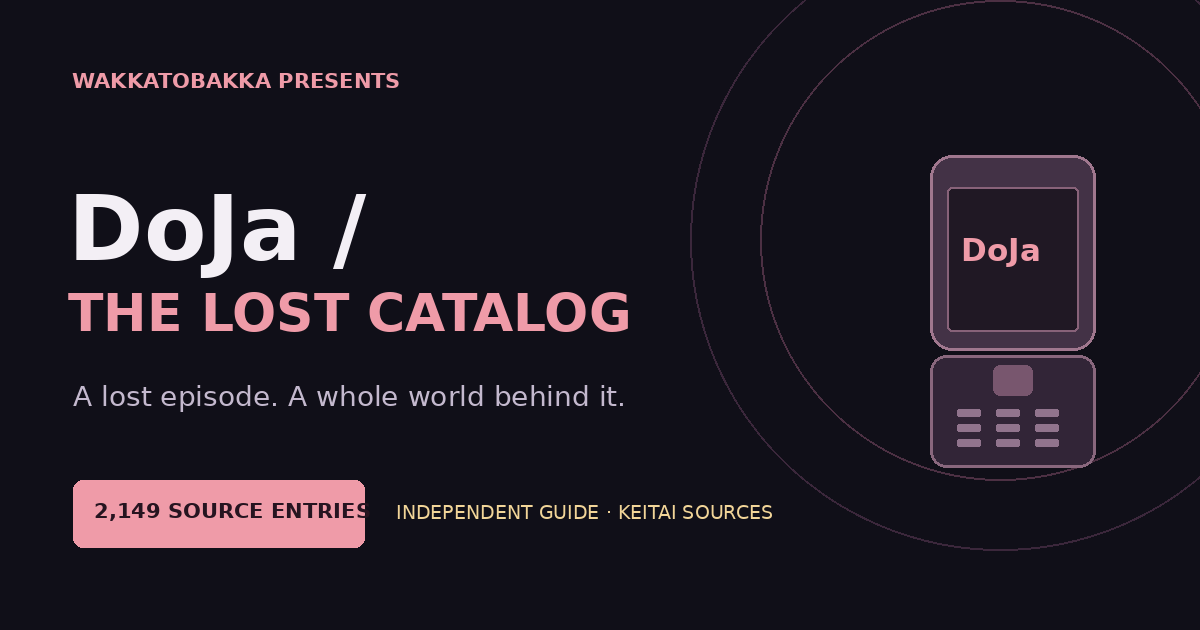
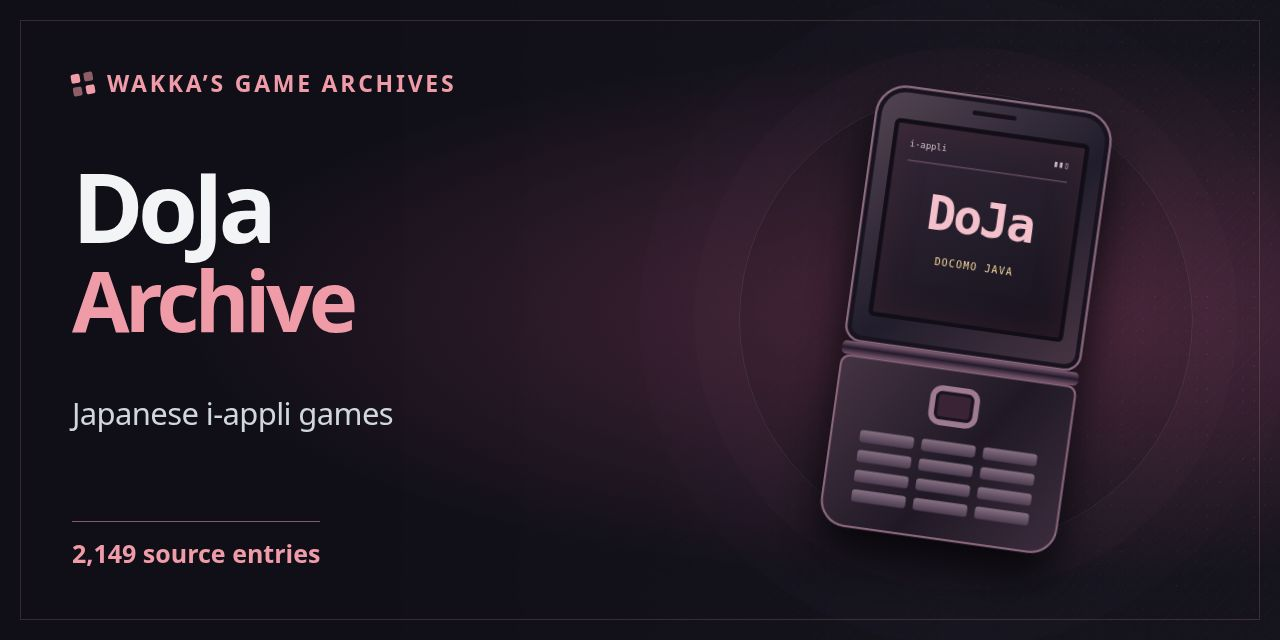
archive revamp

diff --git a/index.html b/index.html
@@ -32,7 +32,7 @@
 #games{scroll-margin-top:100px}.catalog-status{margin:0;padding:13px 23px;border-bottom:1px solid var(--line);color:var(--muted);font-size:11px;line-height:1.6}.catalog-status-warning{color:var(--amber)}.catalog-list{max-height:520px;max-height:min(66vh,520px)}.game-row{display:block;padding:0}.game-summary{display:grid;grid-template-columns:minmax(0,1fr) auto;align-items:center;gap:14px;padding:16px 0;cursor:pointer;list-style:none}.game-summary::-webkit-details-marker{display:none}.game-meta{display:flex;align-items:flex-end;flex-direction:column;gap:7px}.game-open{color:var(--muted);font-size:9px;white-space:nowrap}details[open] .game-open{color:var(--cyan)}.game-summary:hover strong{color:var(--cyan)}.game-body{padding:0 0 19px 12px;margin:0 0 3px;border-left:2px solid #36636e;font-size:12px;line-height:1.7;overflow-wrap:anywhere}.game-body dl{margin:0}.game-body dl>div{margin:0 0 14px}.game-body dt{color:var(--muted);font:600 9px/1.5 ui-monospace,monospace;letter-spacing:.9px;text-transform:uppercase;margin-bottom:4px}.game-body dd{margin:0;color:var(--ink)}.game-body a,.guide-intro a{color:var(--cyan);text-decoration:underline;text-underline-offset:3px}.game-body code{font-size:11px;color:#d1efbd;white-space:normal;overflow-wrap:anywhere}.game-permalink{font-size:10px}.guide-intro{font-size:13px!important}.release-line{margin:18px 0}.release-line .text-link{font-size:12px}.search:disabled{opacity:.65}summary:focus-visible{outline:2px solid var(--cyan);outline-offset:3px}#game-list [id]{scroll-margin-top:100px}
 @media(max-width:760px){.catalog-list{max-height:64vh}.game-summary{gap:10px}.game-body{font-size:12px}.catalog-heading span{font-size:9px}.game-summary small{font-size:10px}.game-open{font-size:9px}}
 
-.catalogues{border-top:1px solid var(--line);background:#0d1519}.archive-grid{display:grid;grid-template-columns:repeat(6,minmax(0,1fr));gap:20px}.archive-card{grid-column:span 2;display:flex;flex-direction:column;overflow:hidden;border:1px solid var(--line);border-radius:11px;background:var(--surface);transition:border-color .2s,transform .2s}.archive-card:hover{border-color:#4e8c97;transform:translateY(-3px)}.archive-card img{width:100%;height:auto;aspect-ratio:1200/630;object-fit:contain;background:#0b1017;border-bottom:1px solid var(--line)}.archive-copy{display:flex;flex-direction:column;flex:1;padding:22px}.archive-title{display:flex;align-items:center;justify-content:space-between;gap:15px}.archive-title h3{font-size:22px;line-height:1.2;letter-spacing:-.6px;margin:0}.archive-title .arrow{color:var(--cyan)}.archive-copy p{font-size:13px;color:var(--muted);margin:13px 0 20px}.archive-action{margin-top:auto;font-size:11px;font-weight:650;color:var(--cyan)}.section-note{max-width:760px;font-size:12px;color:var(--muted);margin:25px 0 0}
+.catalogues{border-top:1px solid var(--line);background:#0d1519}.archive-grid{display:grid;grid-template-columns:repeat(6,minmax(0,1fr));gap:20px}.archive-card{grid-column:span 2;display:flex;flex-direction:column;overflow:hidden;border:1px solid var(--line);border-radius:11px;background:var(--surface);transition:border-color .2s,transform .2s}.archive-card:hover{border-color:#4e8c97;transform:translateY(-3px)}.archive-card img{width:100%;height:auto;aspect-ratio:2/1;object-fit:contain;background:#0b1017;border-bottom:1px solid var(--line)}.archive-copy{display:flex;flex-direction:column;flex:1;padding:22px}.archive-title{display:flex;align-items:center;justify-content:space-between;gap:15px}.archive-title h3{font-size:22px;line-height:1.2;letter-spacing:-.6px;margin:0}.archive-title .arrow{color:var(--cyan);display:block;position:relative;width:14px;height:14px;flex:none}.archive-title .arrow::before,.archive-title .arrow::after{content:"";position:absolute;box-sizing:border-box}.archive-title .arrow::before{right:0;top:0;width:8px;height:8px;border-top:2px solid currentColor;border-right:2px solid currentColor}.archive-title .arrow::after{width:15px;height:2px;left:0;bottom:0;background:currentColor;transform:rotate(-45deg);transform-origin:left center}.archive-copy p{font-size:13px;color:var(--muted);margin:13px 0 20px}.archive-action{margin-top:auto;font-size:11px;font-weight:650;color:var(--cyan)}.section-note{max-width:760px;font-size:12px;color:var(--muted);margin:25px 0 0}
 .histories{border-top:1px solid var(--line)}.history-banner{display:block;border:1px solid #2d4848;border-radius:12px;overflow:hidden;background:#112829}.history-banner img{width:100%;height:auto}.history-grid{display:grid;grid-template-columns:1fr 1fr;gap:88px;margin:42px 0 34px}.history-grid h2{font-size:clamp(35px,4vw,49px);line-height:1.12;letter-spacing:-1.8px;margin:14px 0 22px}.history-deck{font-size:17px;line-height:1.7;color:var(--muted);margin:0}.history-copy p{font-size:14px;color:var(--muted);margin:0 0 19px}.history-copy strong{color:var(--ink);font-weight:650}.history-context{font-size:12px!important}.history-context a{color:var(--cyan);text-decoration:underline;text-underline-offset:3px}.history-copy .btn{margin-top:4px}.story-trails{display:grid;grid-template-columns:repeat(3,minmax(0,1fr));gap:24px;border-top:1px solid var(--line);padding-top:24px}.story-trails a{font-size:14px;font-weight:650}.story-trails .mono{display:block;font-size:9px;letter-spacing:1px;font-weight:400;color:var(--muted);margin-bottom:5px}.story-trails a>span:last-child{color:var(--cyan);margin-left:7px}.story-trails a:hover{color:var(--cyan)}
 .ripple{padding-top:74px;margin-bottom:96px;border-block:1px solid #3e384b;background:radial-gradient(ellipse at 90% 10%,#3c254033,transparent 65%),#121117;--cyan:#dabbea;--line:#3b3445;--muted:#b1a9bd;--ink:#f4edf5;color:var(--ink)}.ripple-heading{margin-bottom:35px}.ripple-heading h2{font-family:Georgia,'Times New Roman',serif;font-size:clamp(54px,7vw,84px);font-weight:400;letter-spacing:7px;line-height:1.05;margin:18px 0 8px}.ripple-subtitle{font:italic 21px/1.4 Georgia,'Times New Roman',serif;color:var(--muted);margin:0}.ripple-grid{display:grid;grid-template-columns:1fr 1.05fr;gap:76px;align-items:start}.ripple-copy>p{font-size:14px;color:var(--muted);margin:0 0 19px}.ripple-copy .ripple-deck{font:24px/1.45 Georgia,'Times New Roman',serif;color:var(--ink);margin-bottom:24px}.ripple-copy .ripple-byline{font-size:11px}.ripple-actions{display:flex;flex-wrap:wrap;align-items:center;gap:22px;margin-top:28px}.ripple-actions .btn:hover{background:#dabbea14}.ripple-art{display:grid;grid-template-columns:1fr 1fr;gap:13px}.ripple-art a:nth-child(2){margin-top:65px}.ripple-art figure{margin:0}.ripple-art img{width:100%;height:auto;aspect-ratio:3/2;object-fit:contain;border:1px solid #514258;border-radius:5px}.ripple-art figcaption{display:flex;justify-content:space-between;align-items:center;gap:8px;font:15px/1.5 Georgia,'Times New Roman',serif;margin-top:10px;color:var(--ink)}.ripple-art a:hover figcaption{color:var(--cyan)}
 @media(max-width:1000px){.menu-toggle{display:block}.nav{display:none;position:absolute;top:100%;left:0;right:0;padding:18px 28px 23px;border-bottom:1px solid var(--line);background:#0c1418;flex-direction:column;align-items:stretch;gap:0}.nav[data-open=true]{display:flex}.nav a{padding:12px 5px;font-size:14px}.nav .github-link{border-left:0;border-top:1px solid var(--line);padding-left:5px;margin-top:6px}.history-grid{gap:40px}.ripple-grid{gap:38px}.archive-grid{gap:15px}.archive-copy{padding:19px}.archive-copy p{font-size:12px}}
@@ -278,14 +278,14 @@
 </section>
 <section class="section catalogues" id="catalogues" aria-labelledby="catalogues-title">
 <div class="wrap">
-<div class="section-head"><div><div class="eyebrow">04 / The search trails</div><h2 id="catalogues-title">I went looking for a game.<br>This happened.</h2></div><p>These grew out of the places I used and the things I found while hunting. Six searchable catalogues, with a trail back to the people and collections that kept this stuff around.</p></div>
+<div class="section-head"><div><div class="eyebrow">04 / The search trails</div><h2 id="catalogues-title">I went looking for a game.<br>This happened.</h2></div><p>These grew out of the places I used and the things I found while hunting. Explore six searchable archives with histories, creator credits, and sources.</p></div>
 <div class="archive-grid">
-<a class="archive-card" href="https://wakkatobakka.github.io/qualcomm-brew-archive/"><img src="assets/catalogue-brew.png" alt="" width="1200" height="630" loading="lazy" decoding="async"><div class="archive-copy"><div class="archive-title"><h3>Qualcomm BREW</h3><span class="arrow" aria-hidden="true">↗</span></div><p>Games, demos, utilities, alternate builds, and the packages that survived.</p><span class="archive-action">Browse the catalogue</span></div></a>
-<a class="archive-card" href="https://wakkatobakka.github.io/doja-archive/"><img src="assets/catalogue-doja.png" alt="" width="1200" height="630" loading="lazy" decoding="async"><div class="archive-copy"><div class="archive-title"><h3>DoJa</h3><span class="arrow" aria-hidden="true">↗</span></div><p>i-mode titles, trials, translations. A lost episode was only the beginning.</p><span class="archive-action">Browse the catalogue</span></div></a>
-<a class="archive-card" href="https://wakkatobakka.github.io/exen-game-archive/"><img src="assets/catalogue-exen.png" alt="" width="1200" height="630" loading="lazy" decoding="async"><div class="archive-copy"><div class="archive-title"><h3>ExEn</h3><span class="arrow" aria-hidden="true">↗</span></div><p>A largely forgotten platform, with source-linked listings to follow.</p><span class="archive-action">Browse the catalogue</span></div></a>
-<a class="archive-card" href="https://wakkatobakka.github.io/zeebo-archive/"><img src="assets/catalogue-zeebo.png" alt="" width="1200" height="630" loading="lazy" decoding="async"><div class="archive-copy"><div class="archive-title"><h3>Zeebo</h3><span class="arrow" aria-hidden="true">↗</span></div><p>A small console with games, package variants, developer tools, and a printed paper trail.</p><span class="archive-action">Browse the catalogue</span></div></a>
-<a class="archive-card" href="https://wakkatobakka.github.io/j2me-archive/"><img src="assets/catalogue-j2me.png" alt="" width="1200" height="630" loading="lazy" decoding="async"><div class="archive-copy"><div class="archive-title"><h3>J2ME</h3><span class="arrow" aria-hidden="true">↗</span></div><p>Handsets, editions, languages, and the enormous world hiding behind the .jar.</p><span class="archive-action">Browse the catalogue</span></div></a>
-<a class="archive-card" href="https://wakkatobakka.github.io/ngage-archive/"><img src="https://wakkatobakka.github.io/ngage-archive/social-preview.png" alt="" width="1200" height="630" loading="lazy" decoding="async"><div class="archive-copy"><div class="archive-title"><h3>N-Gage</h3><span class="arrow" aria-hidden="true">↗</span></div><p>Two generations of sideways-phone history: games, alternate editions, development builds, and the material packed in beside them.</p><span class="archive-action">Browse the catalogue</span></div></a>
+<a class="archive-card" href="https://wakkatobakka.github.io/qualcomm-brew-archive/"><img src="assets/catalogue-brew.png" alt="" width="1280" height="640" loading="lazy" decoding="async"><div class="archive-copy"><div class="archive-title"><h3>Qualcomm BREW</h3><span class="arrow" aria-hidden="true"></span></div><p>Phone games like BioShock 3D, with developer accounts, production art, and preserved packages.</p><span class="archive-action">Explore the archive</span></div></a>
+<a class="archive-card" href="https://wakkatobakka.github.io/doja-archive/"><img src="assets/catalogue-doja.png" alt="" width="1280" height="640" loading="lazy" decoding="async"><div class="archive-copy"><div class="archive-title"><h3>DoJa</h3><span class="arrow" aria-hidden="true"></span></div><p>Japanese i-appli games, from Dirge of Cerberus: Lost Episode to the camera-controlled Chokkan Crash.</p><span class="archive-action">Explore the archive</span></div></a>
+<a class="archive-card" href="https://wakkatobakka.github.io/exen-game-archive/"><img src="assets/catalogue-exen.png" alt="" width="1280" height="640" loading="lazy" decoding="async"><div class="archive-copy"><div class="archive-title"><h3>ExEn</h3><span class="arrow" aria-hidden="true"></span></div><p>In-Fusio’s phone games, with creator credits, period interviews, and Kaolink’s Crash Bandicoot level plans.</p><span class="archive-action">Explore the archive</span></div></a>
+<a class="archive-card" href="https://wakkatobakka.github.io/zeebo-archive/"><img src="assets/catalogue-zeebo.png" alt="" width="1280" height="640" loading="lazy" decoding="async"><div class="archive-copy"><div class="archive-title"><h3>Zeebo</h3><span class="arrow" aria-hidden="true"></span></div><p>Zeebo’s games and their development, from Zeebo Extreme Baja to the console’s Resident Evil 4 adaptation.</p><span class="archive-action">Explore the archive</span></div></a>
+<a class="archive-card" href="https://wakkatobakka.github.io/j2me-archive/"><img src="assets/catalogue-j2me.png" alt="" width="1280" height="640" loading="lazy" decoding="async"><div class="archive-copy"><div class="archive-title"><h3>J2ME</h3><span class="arrow" aria-hidden="true"></span></div><p>Java phone games like God of War: Betrayal, with developer stories and editions for different handsets.</p><span class="archive-action">Explore the archive</span></div></a>
+<a class="archive-card" href="https://wakkatobakka.github.io/ngage-archive/"><img src="assets/catalogue-ngage.png" alt="" width="1280" height="640" loading="lazy" decoding="async"><div class="archive-copy"><div class="archive-title"><h3>N-Gage</h3><span class="arrow" aria-hidden="true"></span></div><p>Both generations of Nokia’s platform, with game histories, development builds, and preserved editions.</p><span class="archive-action">Explore the archive</span></div></a>
 </div>
 <p class="section-note">The catalogues reach well beyond Omni’s supported games. Original files stay with their source collections; each catalogue keeps its sources, credits, and evidence notes close by.</p>
 </div>
